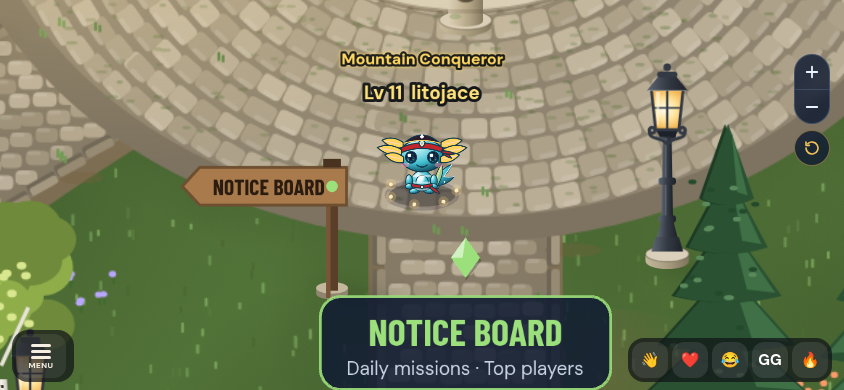
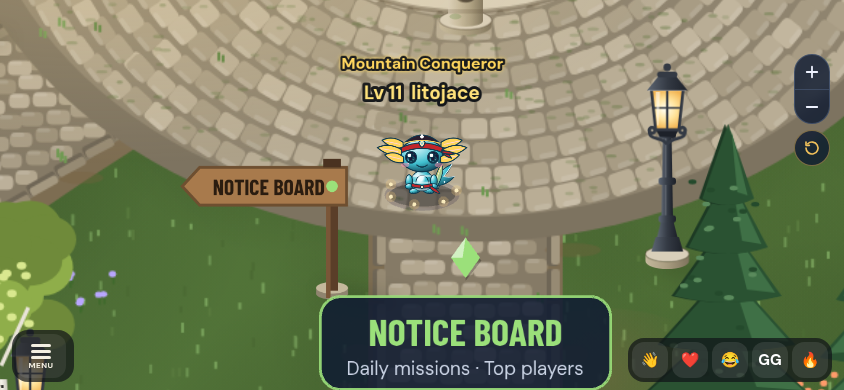
Tighten the gap between town titles and names

Changed region(s): [[0.4005, 0.1231, 0.6161, 0.1846]]

diff --git a/apps/client/src/town.ts b/apps/client/src/town.ts
@@ -95,7 +95,7 @@ interface Body {
 /** Room around title text for its glow, so the blur isn't clipped. */
 const TITLE_PAD = { x: 12, y: 7 };
 /** Clear space between the title lettering and the player name below it. */
-const TITLE_GAP = 6;
+const TITLE_GAP = 3;
 /**
  * Draw a title the way the arena nameplate does (see .player-title in
  * style.css): every title glows in its colour, Master titles pulse slowly,
